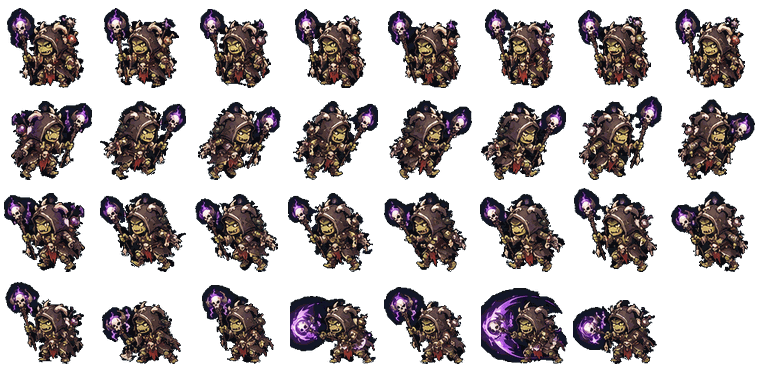
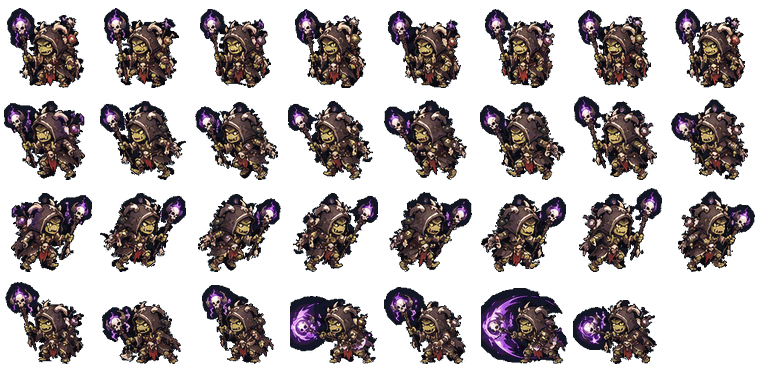
마법사 공격과 고블린 주술사 걷기의 좌우를 바로잡는다
마법사는 공격 일곱 장 중 1·2·7이 왼쪽이었고, 고블린 주술사는 걷기 두 줄이 서로
바뀌어 있었다. 걷기가 뒤바뀐 것은 이번이 넷째다(성기사·좀비·구울에 이어) — 원본이
오른쪽 걷기인 시안을 왼쪽으로 읽으면 나는 실수라, 새 시트를 구울 때마다 이 두
줄을 먼저 보기로 문서에 적었다.

수호자의 공격도 좌우가 섞여 있는데 시안이 애매해 다시 받기로 했다. 그 줄은
새 시안이 올 때까지 손대지 않는다.

Claude-Session: https://claude.ai/code/session_015YSpsURuUqPhSx5KiHykMJ

Changed region(s): [[0.0, 0.2391, 0.9987, 0.7473]]

diff --git a/index.html b/index.html
@@ -121,7 +121,7 @@
     <a href="https://github.com/cshlacid/web-games">GitHub</a>
     <!-- 배포 표시. main에 머지할 때마다 올린다 — 규칙은 CLAUDE.md에 있다.
          날짜에 그날의 번호를 붙여, 같은 날 여러 번 올려도 구별된다. -->
-    <span class="deploy">2026-09-09.22</span>
+    <span class="deploy">2026-09-09.23</span>
   </footer>
 </main>
 

diff --git a/games/healer/CLAUDE.md b/games/healer/CLAUDE.md
@@ -1981,7 +1981,11 @@ Lv6 알맞음 75% · Lv6+3 방치 4% · Lv6+3 42% · Lv3+2 46% · Lv8+2 25% · L
   걷기는 시안이 왼쪽을 보므로 그 규칙이 맞았고, 공격만 어긋났다. 지금은 여덟의
   공격 줄을 뒤집어 두었다. **성기사**도 걷기 두 줄이 서로 바뀌어 있었는데(시안의
   걷기를 왼쪽으로 잘못 읽고 구웠다), 그 뒤 시안을 통째로 갈아 끼우면서 함께
-  사라졌다. 나머지는 다 맞았다.
+  사라졌다. **걷기 두 줄이 뒤바뀐 것은 그 뒤에도 셋 더 나왔다** — 좀비·구울·고블린
+  주술사다. 원본이 오른쪽 걷기인 시안을 왼쪽으로 읽으면 나는 실수라, 새 시트를
+  구울 때마다 이 두 줄을 먼저 본다.
+- **수호자의 공격은 아직 손대지 않았다.** 좌우가 섞여 있는데 시안이 애매해 다시
+  받기로 했다. 새 시안이 오면 이 줄부터 다시 본다.
 - **판단은 눈과 머리로 한다.** 참격이 나가는 방향으로 읽으면 틀린다 — 공격 자세는
   몸을 틀어 무기가 대기와 반대 손에 가 있는 시안이 많아(수호자·마법사·궁수·주인공이
   그렇다) 참격만 보면 멀쩡한 줄을 뒤집게 된다. **귀·뿔·머리카락·망토는 뒤로
@@ -1989,7 +1993,7 @@ Lv6 알맞음 75% · Lv6+3 방치 4% · Lv6+3 42% · Lv3+2 46% · Lv8+2 25% · L
   고쳤다가 되돌렸다.
 - **한 줄 안에서 칸마다 방향이 갈리기도 한다.** 줄 단위로만 보면 그것을 통째로
   놓친다 — 주인공의 공격은 일곱 장 중 1·2·3·7이 왼쪽이고 4·5·6만 오른쪽이었으며,
-  도적은 1·8이, 궁수는 8이 왼쪽이었다. **시안이 프레임마다 다른 방향으로 그려져
+  도적은 1·8, 궁수는 8, 마법사는 1·2·7이 왼쪽이었다. **시안이 프레임마다 다른 방향으로 그려져
   올 수 있다**는 뜻이라, 줄을 보고 넘어가지 말고 칸을 하나씩 본다.
 - **프레임끼리 실루엣을 견줘 자동으로 가르는 것은 안 된다.** 머리 실루엣을 중심
   맞춰 포개고 뒤집어 포갠 값과 견주는 방법을 만들어 봤는데, 주인공의 7번과
